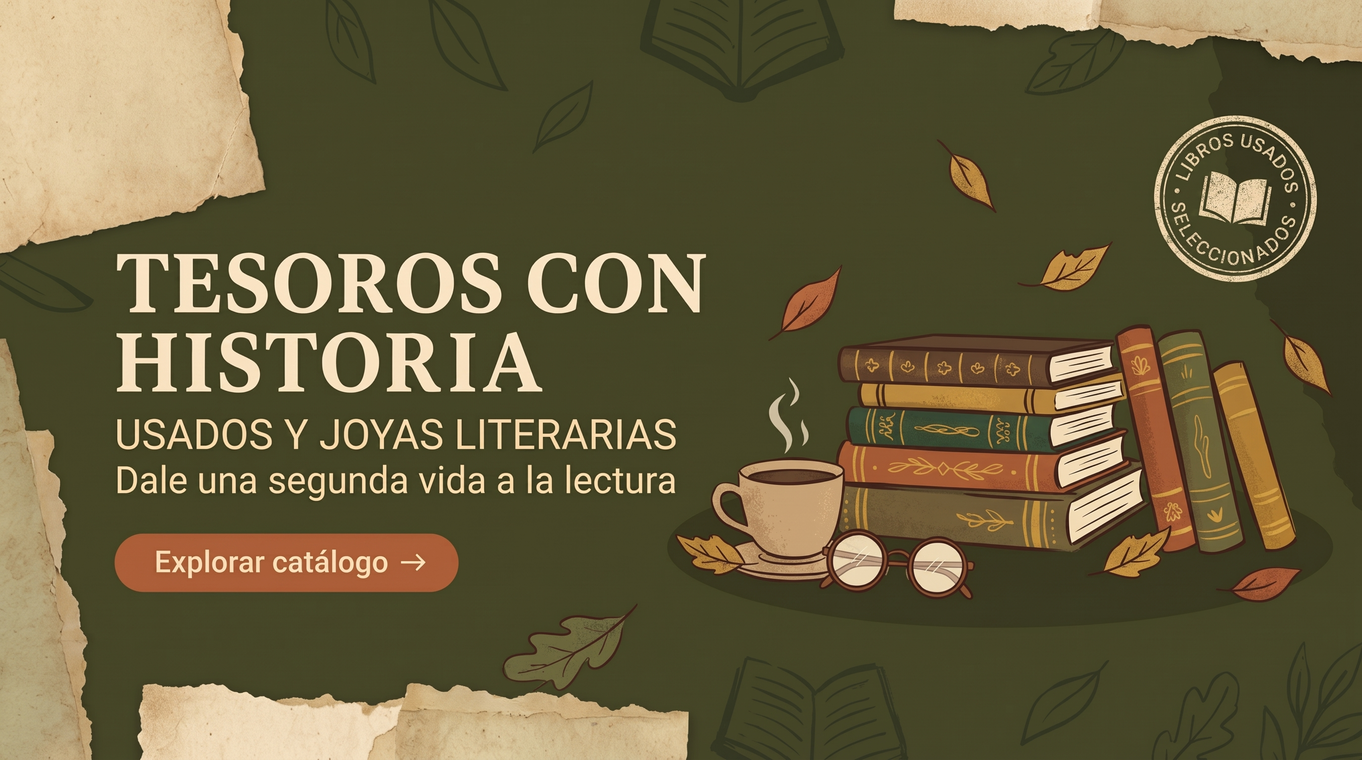
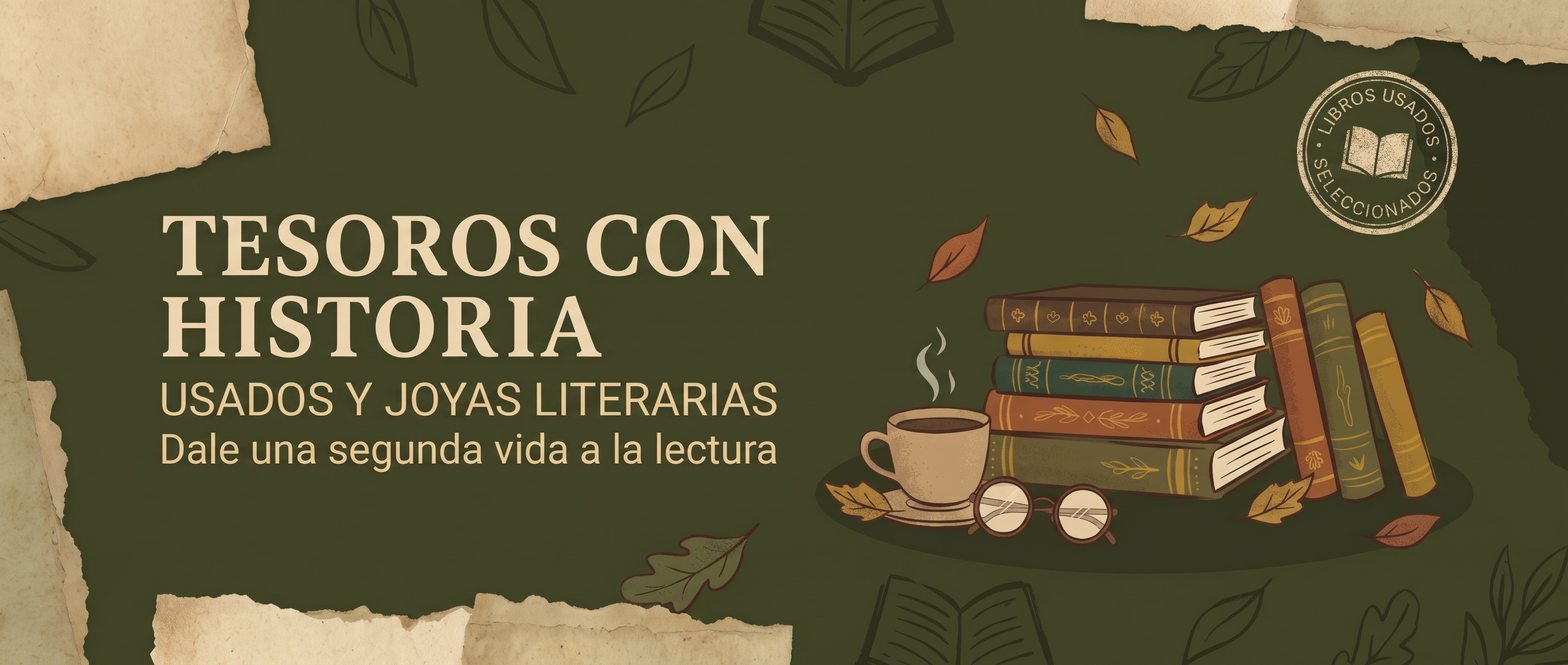
feat: :rocket: fixing build from vercel

diff --git a/src/pages/masvendidos/MasVendidos.jsx b/src/pages/masvendidos/MasVendidos.jsx
@@ -28,7 +28,6 @@ function MasVendidos() {
     <section className={styles.seccion}>
       <header className={styles.encabezado}>
         <div>
-          <span className={styles.etiqueta}>LOS FAVORITOS DE LOS LECTORES</span>
           <h1 className={styles.titulo}>Más vendidos</h1>
           <p className={styles.introduccion}>
             Los libros que más se llevan nuestros lectores. Si no sabés qué

diff --git a/src/pages/masvendidos/MasVendidos.module.css b/src/pages/masvendidos/MasVendidos.module.css
@@ -23,14 +23,14 @@
 }
 
 .titulo {
-  margin-block: 12px 12px;
+  margin: 0;
   color: var(--color-text);
-  font-size: clamp(2rem, 5vw, 3rem);
+  font-size: 2rem;
   font-weight: 700;
 }
 
 .introduccion {
-  max-width: 620px;
+  max-width: 700px;
   margin: 0;
   color: var(--color-text-secondary);
   font-size: 1.1rem;

diff --git a/src/components/Carrusel/Carrusel.module.css b/src/components/Carrusel/Carrusel.module.css
@@ -1,7 +1,7 @@
 .carouselImage {
   display: block;
   width: 100%;
-  height: 500px;
+  height: 400px;
   object-fit: cover;
   object-position: center;
 }
